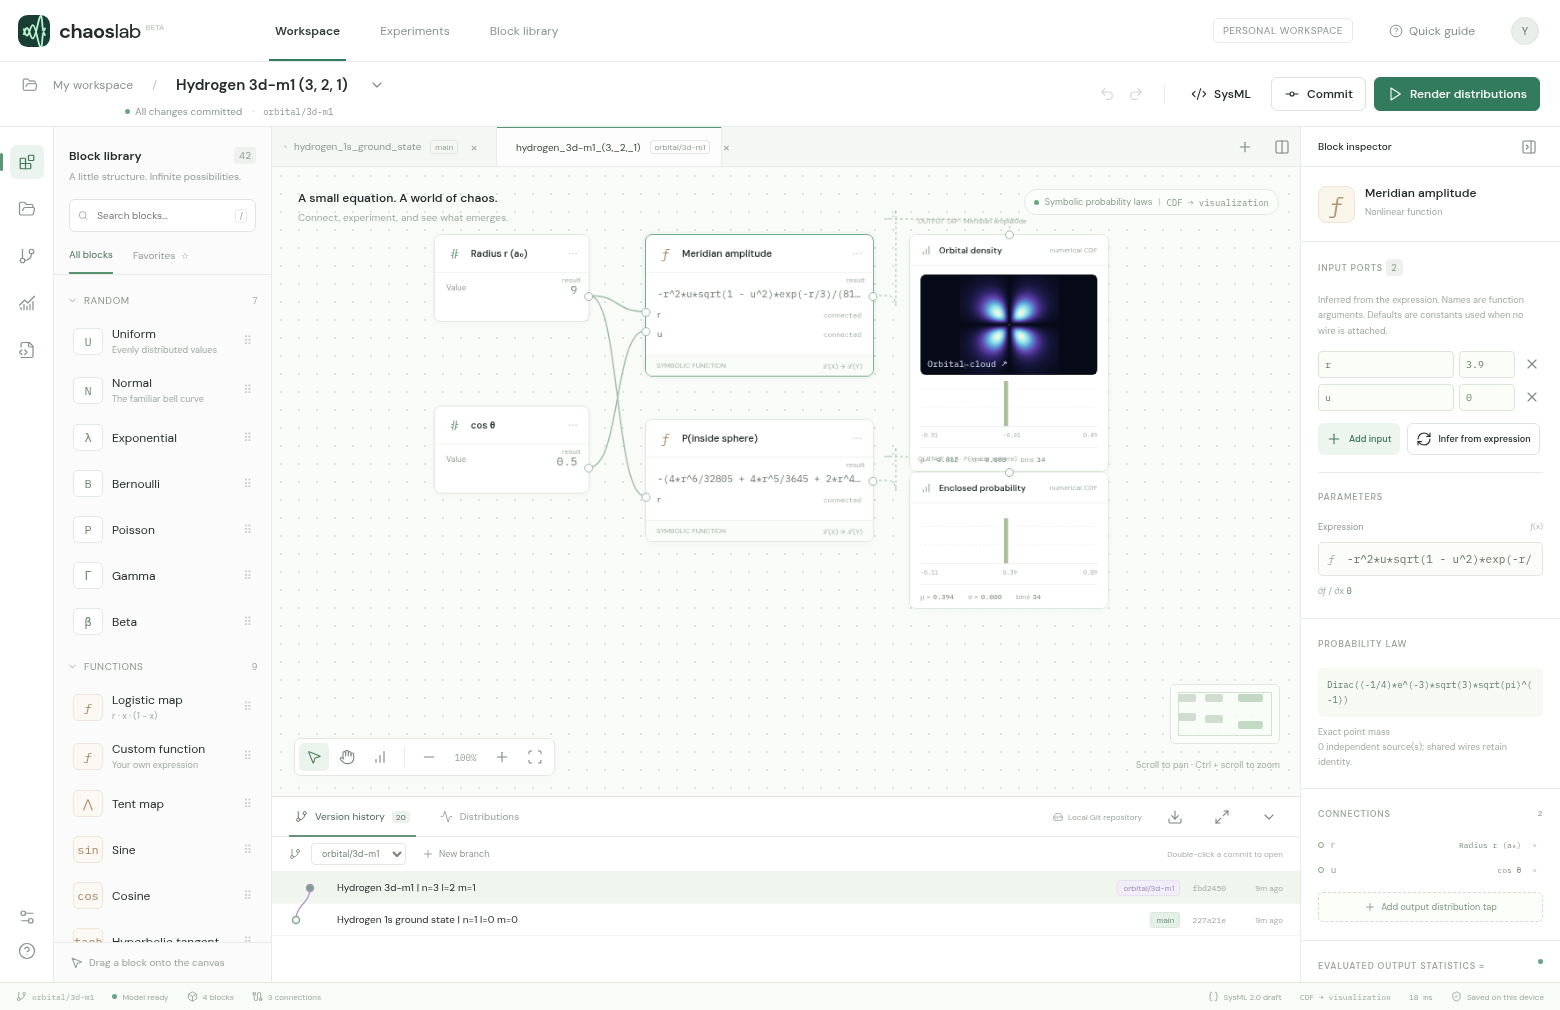
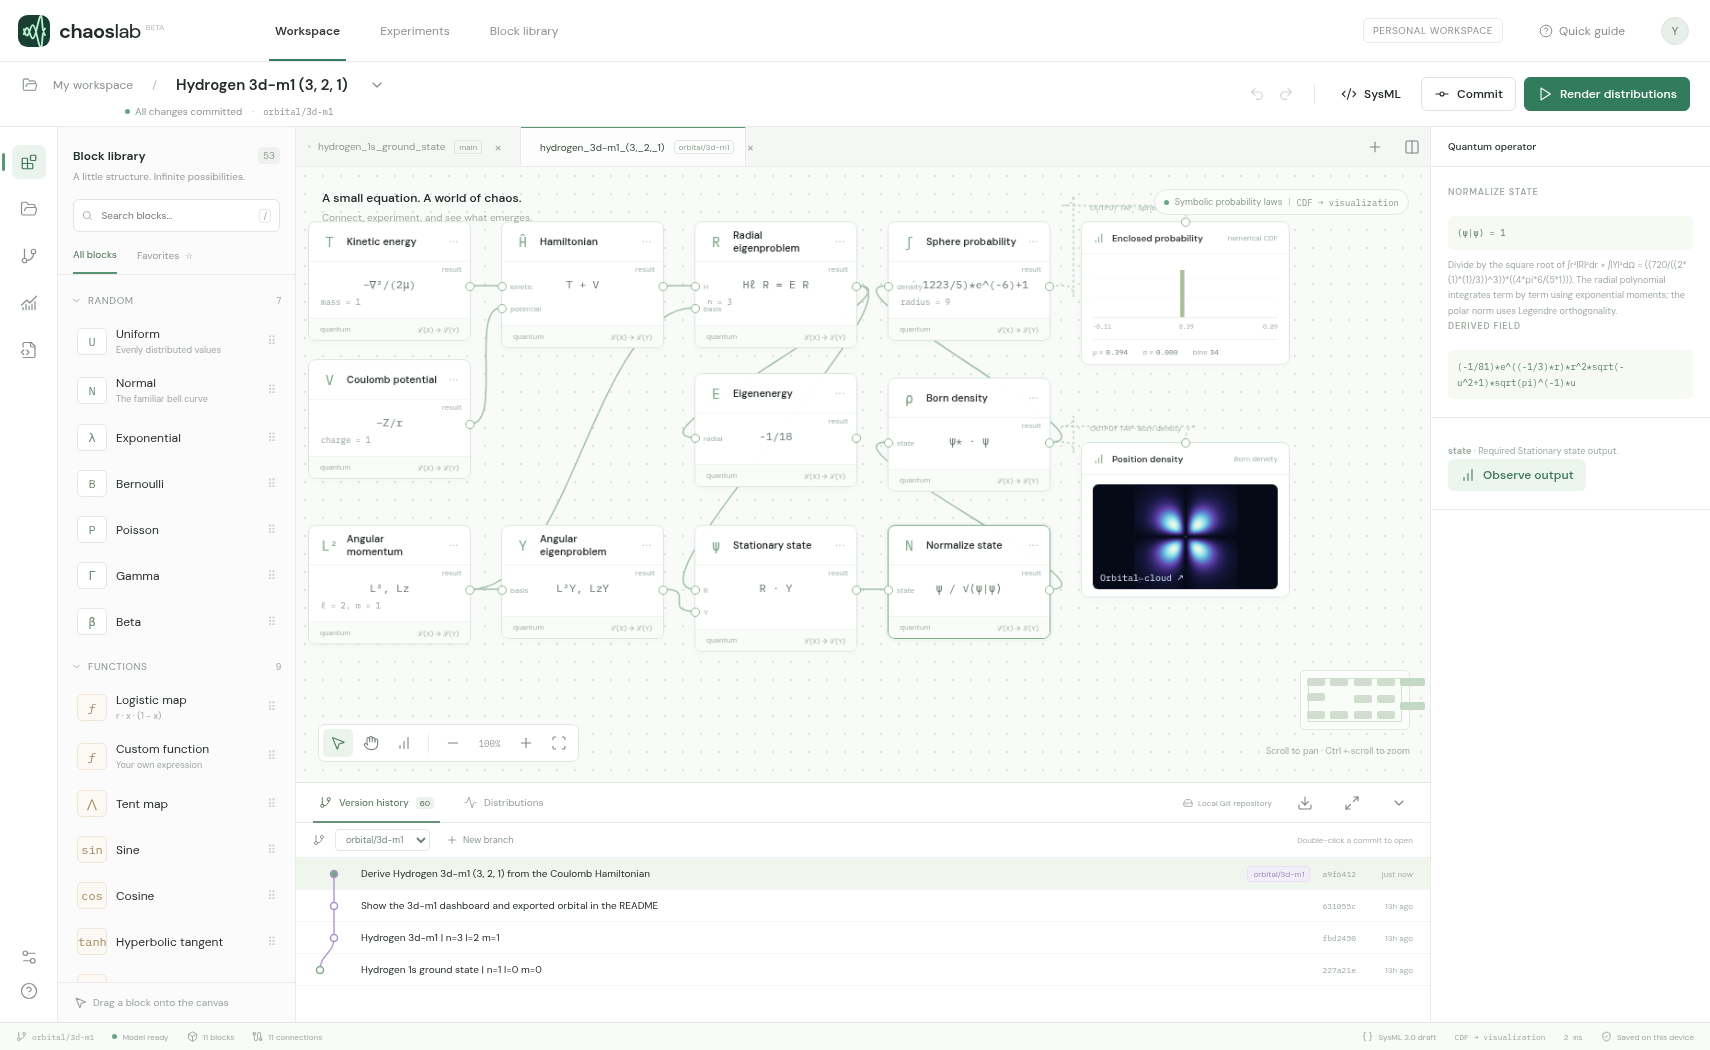
Show the derived state and operator graph for orbital/3d-m1

diff --git a/README.md b/README.md
@@ -4,6 +4,8 @@ Open **Version history** in Chaos Lab to explore the 20 hydrogen designs in this
 
 ## Hydrogen 3d (n = 3, ℓ = 2, m = 1)
 
+The connected Hamiltonian and eigenstate solvers give $E=-1/18$ Hartree for this state.
+
 ![Chaos Lab dashboard with the 3d model, m = 1, open in version history](dashboard.png)
 
 Radial nodes: 0. Polar nodes: 1. Plot half-width: 18 Bohr radii.
@@ -22,7 +24,7 @@ cd hydrogen_wavefunction
 python studio.py
 ```
 
-On Windows you can use `py studio.py`. On Linux you can use `python3 studio.py`. The first launch downloads the pinned Chaos Lab browser build. Double-click a commit to open it in a tab. Open another and use **Split view** to compare them. **Orbital cloud ↗** opens the spatial plots. The launcher reads the Git objects from your clone, including origin branches. Run `git fetch origin` and restart the launcher to load new remote branches.
+On Windows you can use `py studio.py`. On Linux you can use `python3 studio.py`. The first launch downloads the pinned Chaos Lab browser build. Double-click a commit to open it in a tab. Open another and use **Split view** to compare them. **Orbital cloud ↗** opens the spatial plots. The launcher reads the Git objects from your clone, including origin branches. For an existing clone, update the checked-out branch with `git pull --ff-only`, fetch the other branches with `git fetch origin`, and restart the launcher. Double-click the latest commit for the design you want to explore.
 
 To compare states with the same radial law, open `orbital/2p-m0` and `orbital/2p-m1`. At the same radius their enclosed-probability probes agree. The first slice is dark on the equatorial plane, while the second is dark along the polar axis.
 
@@ -32,7 +34,17 @@ To compare states with the same radial law, open `orbital/2p-m0` and `orbital/2p
 
 Branch names encode `(n, ℓ, m)`. For example, `orbital/3d-m1` is `(3,2,1)`. Each snapshot includes the editable graph, its compiled symbolic representation, and its SysML text. Each excited-state branch also contains a reference cross-section.
 
-Coordinates are in Bohr radii. These are normalized fixed-proton, nonrelativistic spatial eigenstates in the complex spherical-harmonic basis. For a fixed m the azimuthal phase is exp(i m φ), so probability density is axially symmetric. The graph evaluates the real meridian amplitude at φ = 0 using radius r and u = cos θ. Its square is probability per unit volume. The sphere probe integrates the radial Born law. The field tap sweeps the same amplitude expression for the x–z slice and its projected detections. Detections are drawn for display from a numerical grid of the final density including the r² volume factor. Brightness and plotting windows are scaled per orbital.
+## How the graph derives this orbital
+
+1. **Kinetic energy** and **Coulomb potential** supply the relative-coordinate operators in atomic units. Their wires feed **Hamiltonian**, which constructs $H=-\nabla^2/(2\mu)-Z/r$. The default is a fixed proton, $Z=\mu=1$.
+2. **Angular momentum** selects the joint eigenvalues of $L^2$ and $L_z$. **Radial eigenproblem** uses that angular eigenvalue in the centrifugal term. Regularity at the origin, decay at infinity, and radial-series termination give the polynomial and energy. **Angular eigenproblem** constructs the polar polynomial by Rodrigues differentiation and includes the phase $e^{im\phi}$.
+3. **Stationary state** multiplies the separated basis functions. **Normalize state** computes their norm with the spherical volume measure. **Born density** takes the squared modulus of the normalized state. **Sphere probability** integrates that density to the probe radius.
+4. Select a block to inspect its equation and derivation. Change **Nuclear charge** from 1 to 2. The energy becomes four times more negative and the orbital contracts by a factor of two. The plot rescales with the orbital, so use its Bohr-radius scale bar to see the change.
+
+The central slice evaluates the final density in the x–z plane. Projected detections sample the final density on a finite radial and angular grid with the spherical volume factor. Coordinates use Bohr radii and energy uses Hartree.
+
+The branch stores the operator graph in `model.json`, its derived fields and scalar laws in `model.symbolic.json`, and the block connections in `model.sysml`. With SymPy installed, run `python tools/verify_state.py` in a checkout of this branch to check the eigenvalue equations, normalization, radial reference solution and sphere integral.
+
 
 | n | ℓ | m | Design branch |
 |---|---|---|---|
